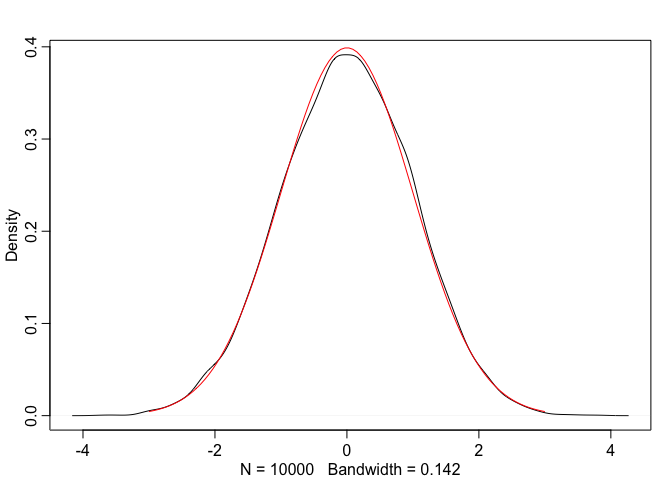
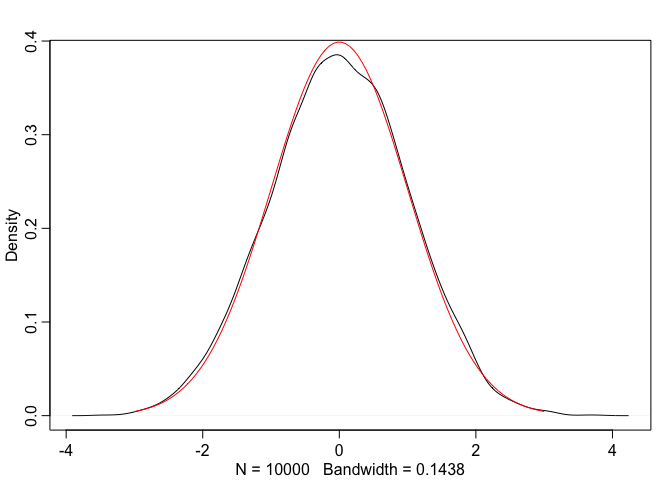
Add a description to the Box-Muller transform section.

diff --git a/_posts/2018-06-22-Sampling_From_a_Normal_Distribution.md b/_posts/2018-06-22-Sampling_From_a_Normal_Distribution.md
@@ -52,12 +52,12 @@ head(samples_matrix, n = 2)
 ```
 
 ```
-##           [,1]       [,2]      [,3]      [,4]      [,5]      [,6]
-## [1,] 0.6723609 0.03528345 0.3383313 0.6566408 0.8492667 0.5779088
-## [2,] 0.2353927 0.16919167 0.8745763 0.9119012 0.1851088 0.5131773
+##           [,1]      [,2]       [,3]      [,4]      [,5]      [,6]
+## [1,] 0.9815679 0.1646868 0.46504853 0.3870014 0.4057999 0.1386880
+## [2,] 0.7057564 0.1965826 0.01534642 0.9303360 0.6086665 0.8662761
 ##           [,7]       [,8]      [,9]      [,10]
-## [1,] 0.2059472 0.09245237 0.6322659 0.65736700
-## [2,] 0.3996431 0.25699826 0.8179378 0.06398768
+## [1,] 0.6065263 0.19273831 0.5401472 0.19706921
+## [2,] 0.5921485 0.06562089 0.6476667 0.08863949
 ```
 
 
@@ -74,7 +74,7 @@ true_normal.y <- dnorm(true_normal.x, mean=0, sd=1)
 lines(true_normal.x, true_normal.y, col="red")
 ```
 
-![]({{site.baseurl}}/assets/Manually_sampling_from_distributions_files/figure-html/unnamed-chunk-5-1.png)<!-- -->
+![]({{ site.baseurl }}/assets/Manually_sampling_from_distributions_files/figure-html/unnamed-chunk-5-1.png)<!-- -->
 
 # Inverse Transform Sampling
 
@@ -90,7 +90,7 @@ inverse_transform <- function () {
 inverse_transform()
 ```
 
-![]({{site.baseurl}}/assets/Manually_sampling_from_distributions_files/figure-html/unnamed-chunk-6-1.png)<!-- -->
+![]({{ site.baseurl }}/assets/Manually_sampling_from_distributions_files/figure-html/unnamed-chunk-6-1.png)<!-- -->
 
 Indeed, a comulative distrition function is approximately uniform. So, if we know a CDF $F$ for a *Normal* distribution, we can generate sample from a Normal distribution via the following steps:
 
@@ -101,30 +101,59 @@ However, this method is not very efficient for continuous cases where the $CDF$ 
 
 # Box-Muller Transform
 
+The box Box-Muller Transform algorithms transforms two *uniformly* distributed variables to two *normally* distributed variable. You can find the details on Wikipedia, https://en.wikipedia.org/wiki/Box%E2%80%93Muller_transform. Below is the implementation.
+
+
+First, let's define some constants:
 
 ```r
 eps = .Machine$double.eps
 two_pi = 2 * 3.141592653589793
+```
+
+The number of normally distributed samples we want to get:
+
+```r
 n = 10000
-uniform_samples = runif(n = n * 2, min = 0, max = 1)
-samples_matrix <- matrix(uniform_samples, nrow=n, byrow = T)
+```
+
+Generate uniform samples, 5,000 rows x 2 samples in each row, the total of 10,000 samples:
+
+```r
+uniform_samples = runif(n = n, min = 0, max = 1)
+samples_matrix <- matrix(uniform_samples, nrow=n / 2, byrow = T)
 head(samples_matrix, n = 2)
 ```
 
 ```
 ##           [,1]      [,2]
-## [1,] 0.9690969 0.1030553
-## [2,] 0.3423448 0.4278888
+## [1,] 0.6277923 0.9219857
+## [2,] 0.3922033 0.7947755
 ```
+
+Apply the Box-Muller transform to obtain *normally* distributed sample. Both variables $z_{0}$ and $z_{1}$ will be normally distributed:
 
 ```r
 z0 = sqrt(-2 * log(samples_matrix[,1])) * cos(two_pi * samples_matrix[,2])
-# z1 = sqrt(-2 * log(uniform_samples[,1])) * sin(two_pi * uniform_samples[,2])
+z1 = sqrt(-2 * log(samples_matrix[,1])) * sin(two_pi * samples_matrix[,2])
+head(z0)
+```
 
-dens(z0, adj = 1)
+```
+## [1]  0.8513094  0.3798598 -1.5203739  0.2343846 -0.5617058  1.5486142
+```
+
+Let's combine $z_{0}$ and $z_{1}$ into a single array $z$. Let's plot the density function of $z$ and compare it to the true normal distribution:
+
+```r
+z = cbind(z0, z1)
+dens(z, adj = 1)
+
 true_normal.x <- seq(-3, 3, length.out = 100)
 true_normal.y <- dnorm(true_normal.x, mean=0, sd=1)
 lines(true_normal.x, true_normal.y, col="red")
 ```
 
-![]({{site.baseurl}}/assets/Manually_sampling_from_distributions_files/figure-html/unnamed-chunk-7-1.png)<!-- -->
+![]({{ site.baseurl }}/assets/Manually_sampling_from_distributions_files/figure-html/unnamed-chunk-11-1.png)<!-- -->
+
+As we can see Box-Muller transform indeed produces a normally distributed varibles. 
